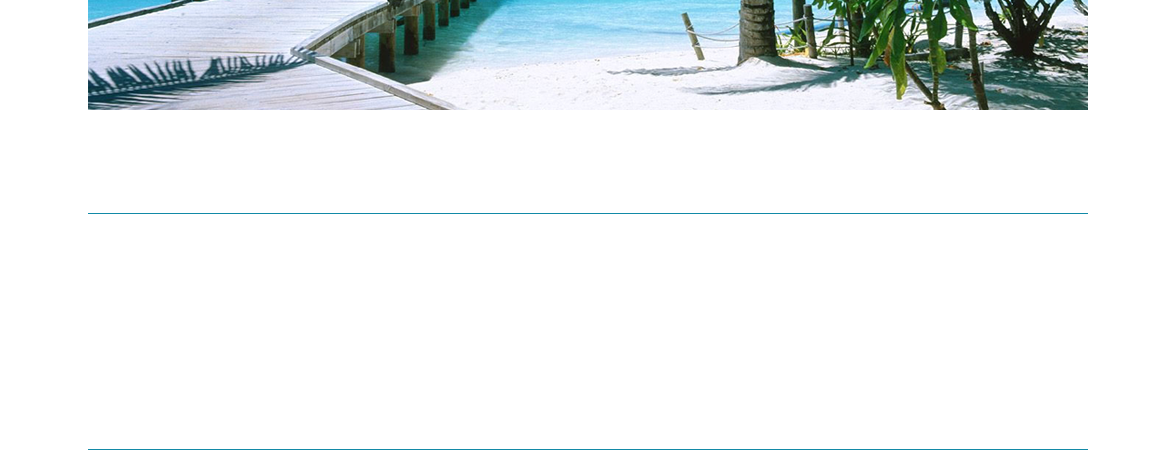
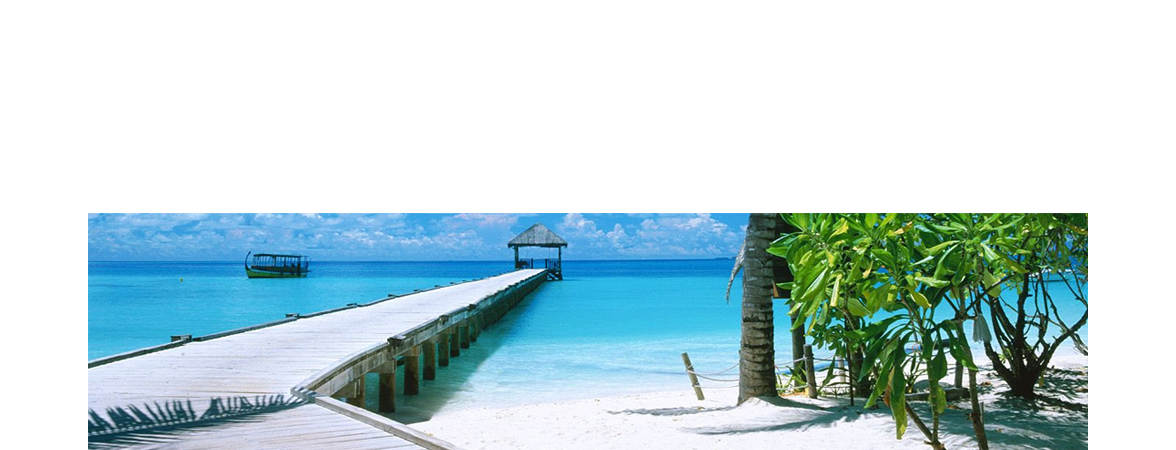
changed style

diff --git a/hw4/css/style.css b/hw4/css/style.css
@@ -7,28 +7,33 @@
 }
 
 body{
-    background-image: url(pic/background.png);
-    -webkit-background-size: cover;
-    background-size: cover;
-    font-family: Tahoma, sans-serif;
+    background-image: url(../pic/background.png);
+    background-size: contain;
+    background-repeat-x: repeat;
 }
 
     .container{
         max-width: 1018px;
         margin: 0 auto;
-        background-image: url(pic/white-main.png);
-        -webkit-background-size: cover;
-        background-size: cover;
+        background-color: #fff;
+        box-shadow: -1px 1px 13px -1px rgba(0,0,0,0.75);
     }
 
     header{
         font-size: 0;
+        margin: 0 37px;
     }
 
         .logo{
+            padding: 100px 0 53px 0;
+            text-align: center;
             display: inline-block;
             width: 20%;
-            background-image: url(pic/logo.png);
+            background-image: url(../pic/logo.png);
+            background-size: contain;
+            background-repeat: no-repeat;
+            background-position: 100% 71%;
+            vertical-align: top;
         }
 
             .logo__name{
@@ -36,29 +41,46 @@ body{
                 color: #128aa7;
                 font-size: 12px;
                 font-weight: 400;
+                font-family: Tahoma, sans-serif;
             }
 
         .header-col-riight{
+            position: relative;
+            vertical-align: top;
+            box-sizing: border-box;
             display: inline-block;
             text-align: right;
-            width: 40%;
+            width: 80%;
             padding: 11px 45px 9px 0;
+            height: 175px;
         }
 
             .header-col-riight__contacts{
-                float: right;
+                display: inline-block;
+                top: 0;
+                right: 0;
                 opacity: 0.8;
                 color: #128aa7;
                 font-size: 12px;
                 text-align: left;
+                font-family: Tahoma, sans-serif;
             }
 
-                .header-col-riight__contacts+p{
+                .header-col-riight__contacts p:first-child{
                     font-weight: bold;
+                }
+
+                .header-col-riight__contacts p{
+                    margin-top: 7px;
                 }
 
             .header-col-riight__country-list{
                 font-size: 0;
+                width: 55%;
+                position: absolute;
+                bottom: 0;
+                right: 0;
+                text-align: center;
             }
 
                 .country-item{
@@ -75,25 +97,45 @@ body{
                     .country-item__name{
                         display: block;
                         text-decoration: #128aa7;
+                        color: #128aa7;
+                        font-family: Tahoma, sans-serif
                     }
 
+            .probably-slider{
+                height: 238px;
+                overflow: hidden;
+                background-size: initial;
+                background-position: bottom;
+                background-image: url(../pic/photo.png)
+            }
+
             .menu{
-                background-image: url(pic/panel.png);
+                background: #000;
+                display: flex;
+                justify-content: space-around;
+                padding: 5px;
+                box-sizing: border-box;
             }
 
                 .menu__item{
                     display: inline-block;
                     color: #ffffff;
                     font-size: 14px;
+                    align-self: baseline;
+                    text-decoration: none;
+                    font-family: Tahoma, sans-serif;
+                    background: #000;
+                    border: none;
                 }
 
             .main-content{
                 font-size: 0;
             }
-                .main-content__info{
+                .main-content__info, .main-content__news{
                     display: inline-block;
                     background-color: #f2f2f2;
                     vertical-align: top;
+                    width: 20.9%;
                 }
 
                     .info-item, .news-item{
@@ -101,20 +143,18 @@ body{
                         -moz-box-sizing: border-box;
                         box-sizing: border-box;
                         border-bottom: 1px solid #d9d9d9;
-                        width: 15%;
+ 
                     }
 
                         .info-item:first-child{
                             height: 151px;
-                            content: "";
                         }
                         .info-item:nth-child(2){
                             height: 257px;
-                            content: "";
                         }
                         .info-item:nth-child(3){
                             height: 136px;
-                            content: "";
+
                         }
 
                         .info-item__title, .news-item__title{
@@ -123,47 +163,38 @@ body{
                             font-weight: bold;
                             margin: 12 auto 0;
                             box-sizing: border-box;
+                            text-align: center;
+                            font-family: Tahoma, sans-serif;
                         }
 
                 .main-content__article{
                     display: inline-block;
                     border-left: 1px solid #d9d9d9;
                     border-right: 1px solid #d9d9d9;
-                    background: url(pic/white-main.png);
-                    background-size: cover;
-                    height: 991px;
-                    content: "";
-                    width: 70%;
+                    height: 544px;
+                    width: 58%;
                     box-sizing: border-box;
                     vertical-align: top;
-                }             
-
-                .main-content__news{
-                    display: inline-block;
-                    vertical-align: top;
-                    background-color: #f2f2f2;
                 }
 
                     .news-item:first-child{
                         height: 311px;
-                        content: "";
                     }
 
                     .news-item:nth-child(2){
                         height: 160px;
-                        content: "";
                     }
 
                     .news-item:nth-child(3){
-                        height: 75px;
-                        content: "";
+                        height: 73px;
                     }
 
             .cory-rights{
-                margin: 8px auto;
+                text-align: center;
+                margin: 8px 0;
                 opacity: 0.8;
                 color: #ffffff;
-                /*font-family: Tahoma;*/
+                font-family: Tahoma, sans-serif;
                 font-size: 12px;
                 font-weight: 400;
                 line-height: 12px;

diff --git a/hw4/index.html b/hw4/index.html
@@ -3,7 +3,7 @@
 <head>
     <meta charset="UTF-8">
     <link rel="stylesheet" href="css/reset.css">
-    <link rel="stylesheet" type="stylesheet" href="css/style1.css">
+    <link rel="stylesheet" href="css/style.css">
     <title>Travel</title>
 </head>
 <body>
@@ -14,7 +14,7 @@
                     Путешествия по Азии
                 </h1>
             </div>
-            <div class="header-col-riight clearfix">
+            <div class="header-col-riight">
                 <div class="header-col-riight__contacts" id="contacts">
                     <p>
                         Наши контакты:
@@ -29,7 +29,7 @@
                         +9-098-765-4321
                     </p>
                 </div>
-                <div class="header-col-riight__country-list">
+                <div class="header-col-riight__country-list clearfix">
                     <div class="country-item">
                         <div class="country-item__img">
                             <img src="pic/i-flag.png" alt="india">
@@ -83,14 +83,13 @@
         </header>
 
         <div class="probably-slider">
-            <img src="pic/photo.png" alt="">
         </div>
 
         <nav class="menu">
             <a href="#" class="menu__item">
                 Главная
             </a>
-            <select size="1" name="" id="" class="menu__item">
+            <select size="1" id="" class="menu__item">
                 <option value="">
                     Путешествие
                 </option>
